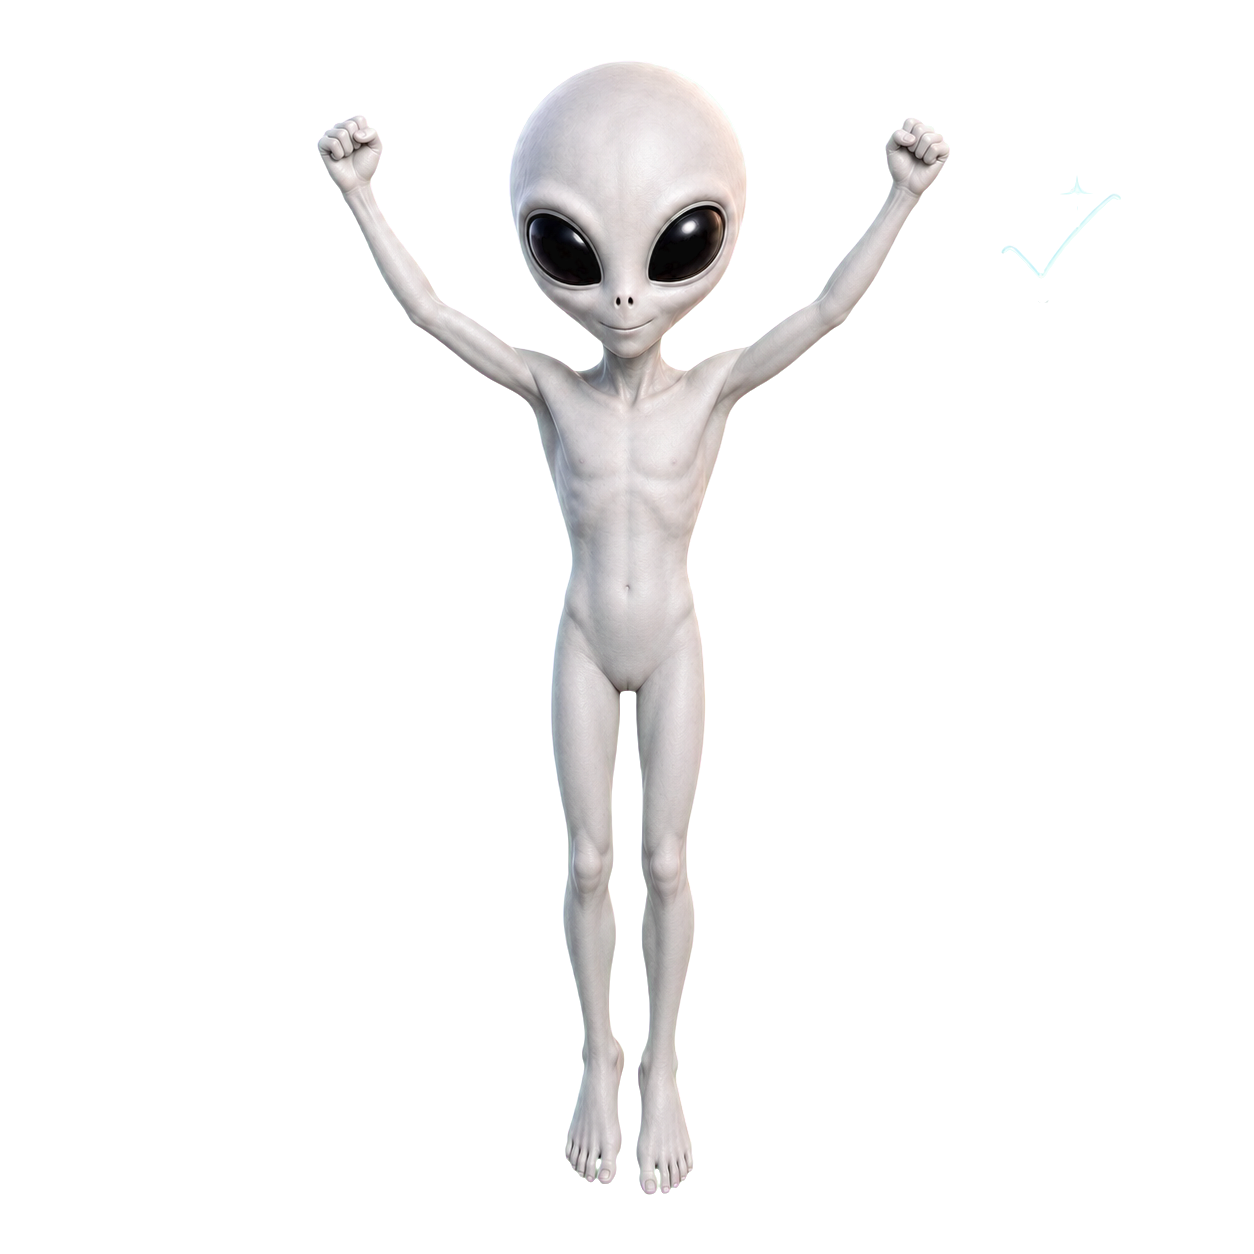
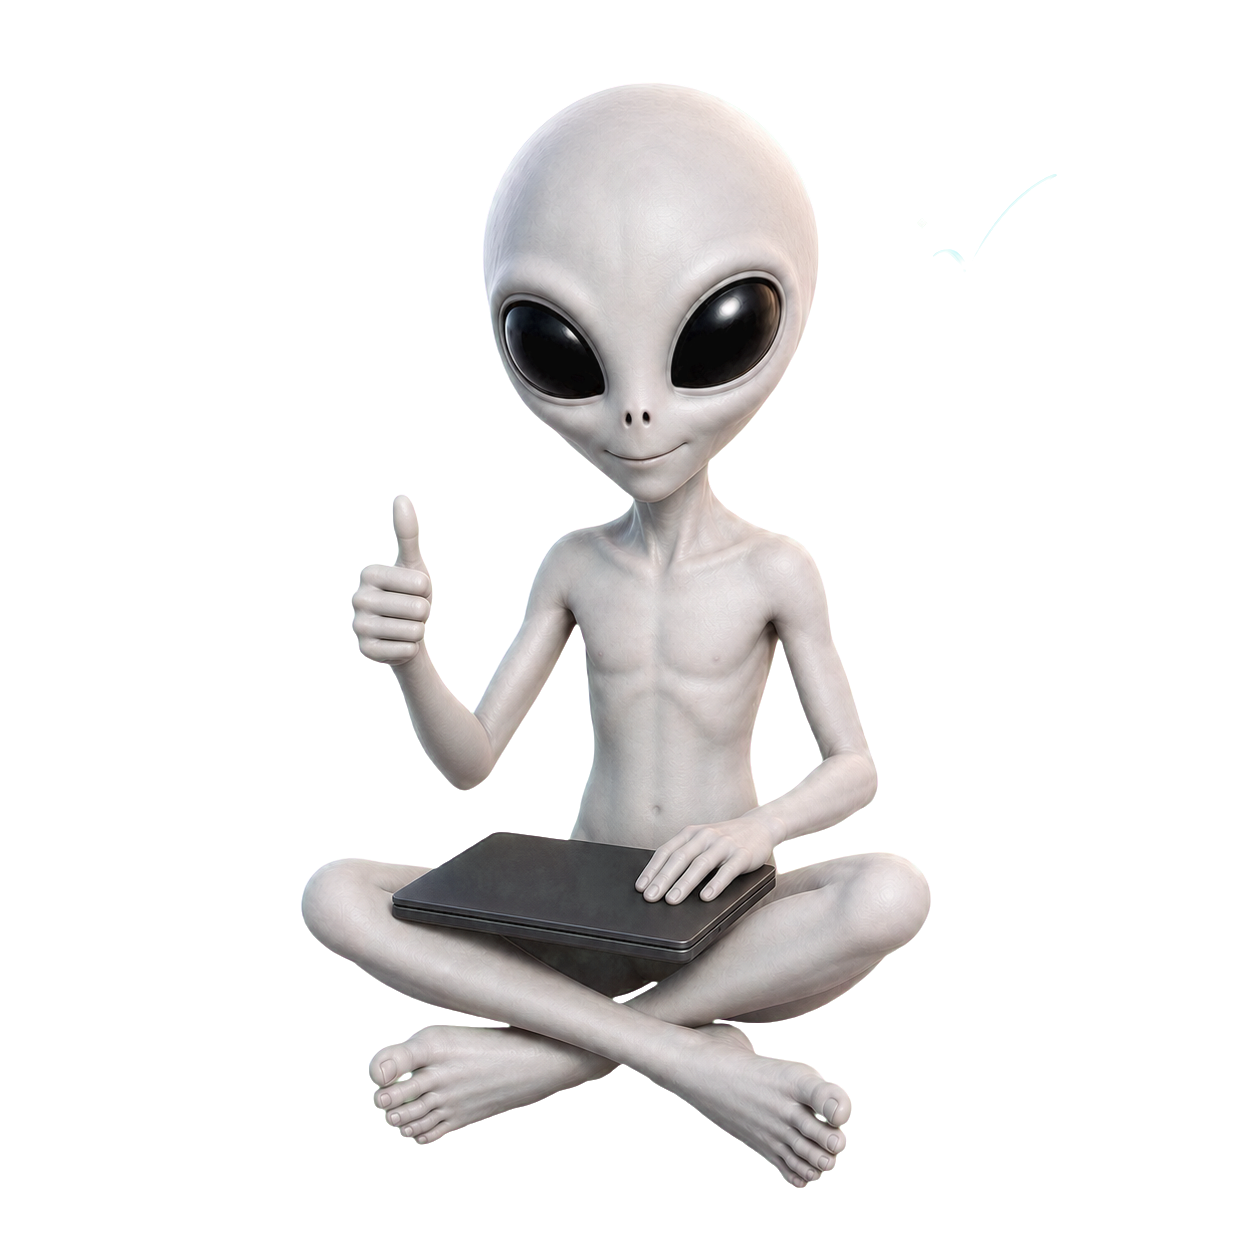
Improve classic ET completion pose

Changed region(s): [[0.2177, 0.0311, 0.7775, 0.9641]]

diff --git a/docs/project-plan.md b/docs/project-plan.md
@@ -17,8 +17,9 @@ Core jobs:
 
 Future mascot direction:
 
-- Animated pug.
-- Idle, working, completed, and attention states.
+- Real pose-to-pose mascot animation, not crossfades between static states.
+- Short sprite sequences or a rigged animation for idle, working, completed, and attention.
+- Shared intermediate poses for transitions such as idle to laptop work and work to completion.
 - Configurable size and sound.
 
 ## Name Decision
@@ -188,7 +189,7 @@ Active next candidates:
 - [ ] Validate attention events and `task.started` in a real VS Code session.
   - [x] Validated `task.started` and `task.completed` through a real Codex CLI session.
   - [ ] Attention requires a real approval request; CLI validation runs with approval disabled.
-- [ ] Add a better animated pug mascot asset pipeline.
+- [ ] Add a real frame-sequence mascot animation pipeline with intermediate poses and static fallbacks.
 - [ ] Improve first-run setup copy and failure recovery.
 
 Later backlog: